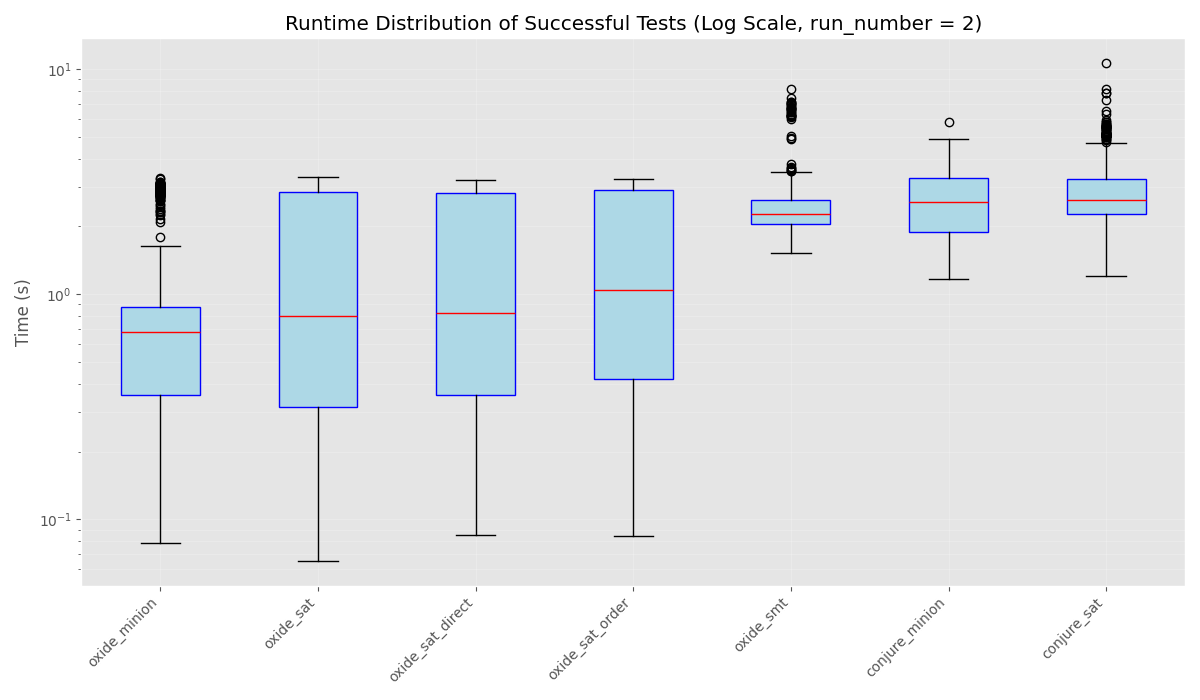
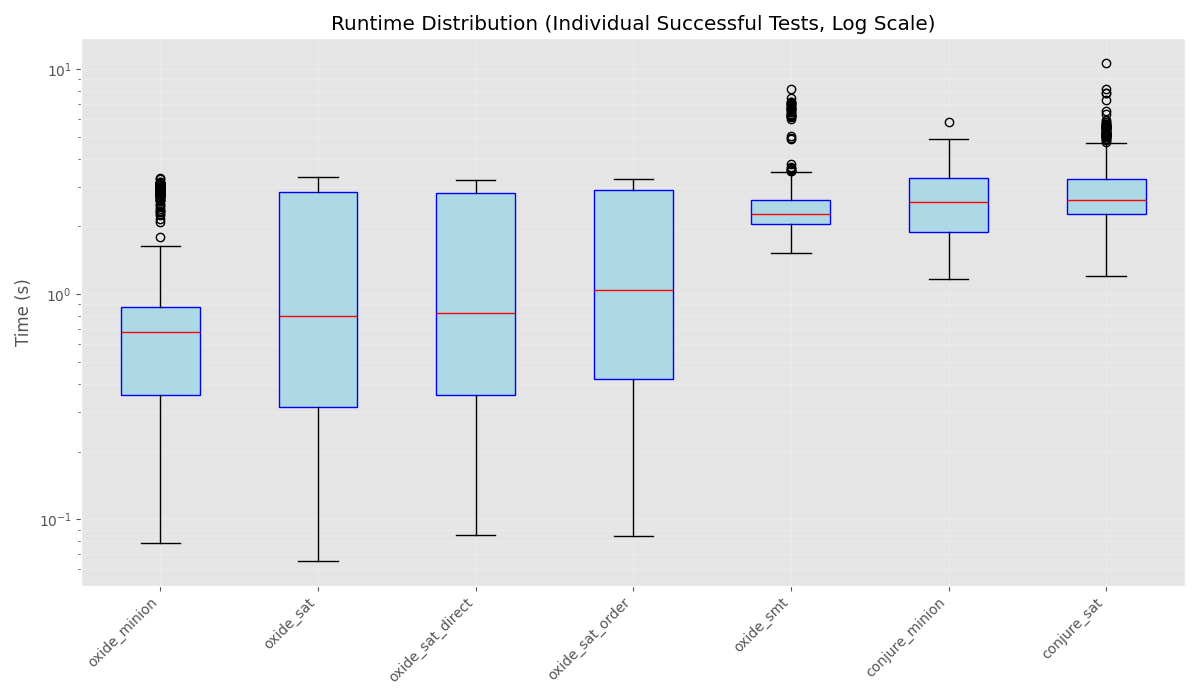
feat: runtime only on comomn instances

Changed region(s): [[0.2467, 0.0, 0.8017, 0.06]]

diff --git a/src/analysis/generate_barchart.py b/src/analysis/generate_barchart.py
@@ -2,7 +2,6 @@ import os
 import sqlite3
 
 import matplotlib.pyplot as plt
-import numpy as np
 import pandas as pd
 
 
@@ -23,13 +22,13 @@ def generate_charts(db_path, output_dir):
         "oxide_main_smt": "oxide_smt",
     }
 
+    internal_names = list(runner_map.keys())
+
     summary_data = []
     raw_times = {}
-
     for internal_name, display_name in runner_map.items():
         query = f'SELECT "{internal_name}" FROM results WHERE "{internal_name}" > 0 AND run_number = 2'
         df_runner = pd.read_sql_query(query, conn)
-
         if not df_runner.empty:
             times = df_runner[internal_name]
             raw_times[display_name] = times
@@ -37,23 +36,36 @@ def generate_charts(db_path, output_dir):
                 {"runner": display_name, "count": len(times), "avg_time": times.mean()}
             )
 
+    where_clause = " AND ".join([f'"{name}" > 0' for name in internal_names])
+    intersection_query = f"SELECT {', '.join([f'"{name}"' for name in internal_names])} FROM results WHERE run_number = 2 AND {where_clause}"
+    df_intersection = pd.read_sql_query(intersection_query, conn)
+
     conn.close()
 
-    if not summary_data:
-        print("No successful runs found for any runner in run_number = 2.")
-        return
-
-    df_summary = pd.DataFrame(summary_data).sort_values("count", ascending=False)
+    if df_intersection.empty:
+        print("No models were solved by all runners simultaneously.")
+        common_data = []
+    else:
+        common_data = []
+        for internal_name in internal_names:
+            display_name = runner_map[internal_name]
+            common_data.append(
+                {
+                    "runner": display_name,
+                    "avg_time": df_intersection[internal_name].mean(),
+                }
+            )
+        print(f"Found {len(df_intersection)} instances solved by all runners.")
 
     plt.style.use("ggplot")
 
-    # --- success Count ---
+    # --- Plot 1: Success Count (Individual) ---
+    df_summary = pd.DataFrame(summary_data).sort_values("count", ascending=False)
     fig1, ax1 = plt.subplots(figsize=(12, 6))
     bars1 = ax1.bar(df_summary["runner"], df_summary["count"], color="skyblue")
-    ax1.set_title("Number of Successful Tests (run_number = 2)")
+    ax1.set_title("Total Number of Successful Tests (run_number = 2)")
     ax1.set_ylabel("Count")
     plt.xticks(rotation=45, ha="right")
-
     conjure_sat_count = df_summary[df_summary["runner"] == "conjure_sat"][
         "count"
     ].values
@@ -70,62 +82,63 @@ def generate_charts(db_path, output_dir):
                 va="bottom",
                 fontsize=9,
             )
-
     plt.tight_layout()
     plt.savefig(os.path.join(output_dir, "success_count.png"))
 
-    # --- Plot 2: Box Plot of Runtimes (Log Scale) ---
-    fig2, ax2 = plt.subplots(figsize=(12, 7))
+    # --- Plot 2: Common Success Average Time ---
+    if common_data:
+        df_common = pd.DataFrame(common_data).sort_values("avg_time")
+        fig2, ax2 = plt.subplots(figsize=(12, 7))
+        bars2 = ax2.bar(df_common["runner"], df_common["avg_time"], color="lightgreen")
+        ax2.set_title(
+            f"Average Runtime on Common Instances (N={len(df_intersection)}, run_number = 2)"
+        )
+        ax2.set_ylabel("Average Time (s)")
+        plt.xticks(rotation=45, ha="right")
 
-    # Prepare data for boxplot (sorted by median for clarity)
+        conjure_sat_time = df_common[df_common["runner"] == "conjure_sat"][
+            "avg_time"
+        ].values[0]
+        for bar in bars2:
+            yval = bar.get_height()
+            ratio = yval / conjure_sat_time
+            ax2.text(
+                bar.get_x() + bar.get_width() / 2,
+                yval + 0.02,
+                f"{yval:.3f}s\n({ratio:.2f}x)",
+                ha="center",
+                va="bottom",
+                fontsize=9,
+            )
+
+        plt.tight_layout()
+        plt.savefig(os.path.join(output_dir, "common_success_average_time.png"))
+
+    # --- Plot 3: Box Plot of Runtimes (Log Scale, Individual) ---
+    fig3, ax3 = plt.subplots(figsize=(12, 7))
     sorted_runners = sorted(raw_times.keys(), key=lambda x: raw_times[x].median())
     plot_data = [raw_times[r] for r in sorted_runners]
-
-    ax2.boxplot(
+    ax3.boxplot(
         plot_data,
+        tick_labels=sorted_runners,
         patch_artist=True,
         boxprops=dict(facecolor="lightblue", color="blue"),
         medianprops=dict(color="red"),
     )
-    ax2.set_xticklabels(sorted_runners)
-
-    ax2.set_yscale("log")
-    ax2.set_title(
-        "Runtime Distribution of Successful Tests (Log Scale, run_number = 2)"
-    )
-    ax2.set_ylabel("Time (s)")
+    ax3.set_yscale("log")
+    ax3.set_title("Runtime Distribution (Individual Successful Tests, Log Scale)")
+    ax3.set_ylabel("Time (s)")
     plt.xticks(rotation=45, ha="right")
     plt.grid(True, which="both", ls="-", alpha=0.2)
-
     plt.tight_layout()
-    plt.savefig(
-        os.path.join(output_dir, "src/analysis/graphs/runtime_distribution_box.png")
-    )
-
-    # --- Plot 3: Cumulative Distribution Function (CDF) ---
-    # This shows how many problems are solved within X seconds
-    fig3, ax3 = plt.subplots(figsize=(12, 7))
-    for runner in sorted_runners:
-        sorted_time = np.sort(raw_times[runner])
-        yvals = np.arange(len(sorted_time)) / float(len(sorted_time) - 1)
-        ax3.plot(sorted_time, yvals, label=runner, lw=2)
-
-    ax3.set_xscale("log")
-    ax3.set_title("Cumulative Distribution of Runtimes (run_number = 2)")
-    ax3.set_xlabel("Time (s)")
-    ax3.set_ylabel("Fraction of Problems Solved")
-    ax3.legend()
-    plt.grid(True, which="both", ls="-", alpha=0.2)
-
-    plt.tight_layout()
-    plt.savefig(os.path.join(output_dir, "src/analysis/graphs/runtime_cdf.png"))
+    plt.savefig(os.path.join(output_dir, "runtime_distribution_box.png"))
 
     print(
-        "Generated: src/analysis/graphs/success_count.png, src/analysis/graphs/runtime_distribution_box.png, src/analysis/graphs/runtime_cdf.png"
+        "Generated: success_count.png, common_success_average_time.png, runtime_distribution_box.png"
     )
 
 
 if __name__ == "__main__":
     db_path = "res/db/testing_runsolver-4G-150proc-1800s.db"
-    output_dir = "."
+    output_dir = "src/analysis/graphs"
     generate_charts(db_path, output_dir)
